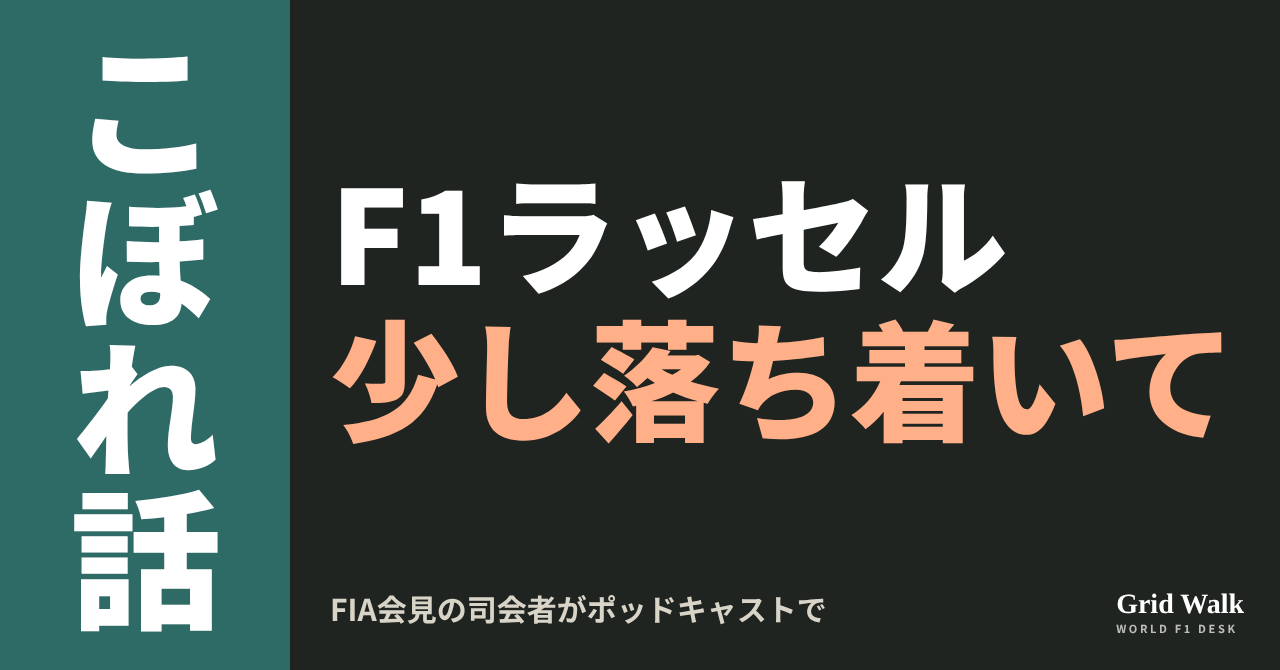
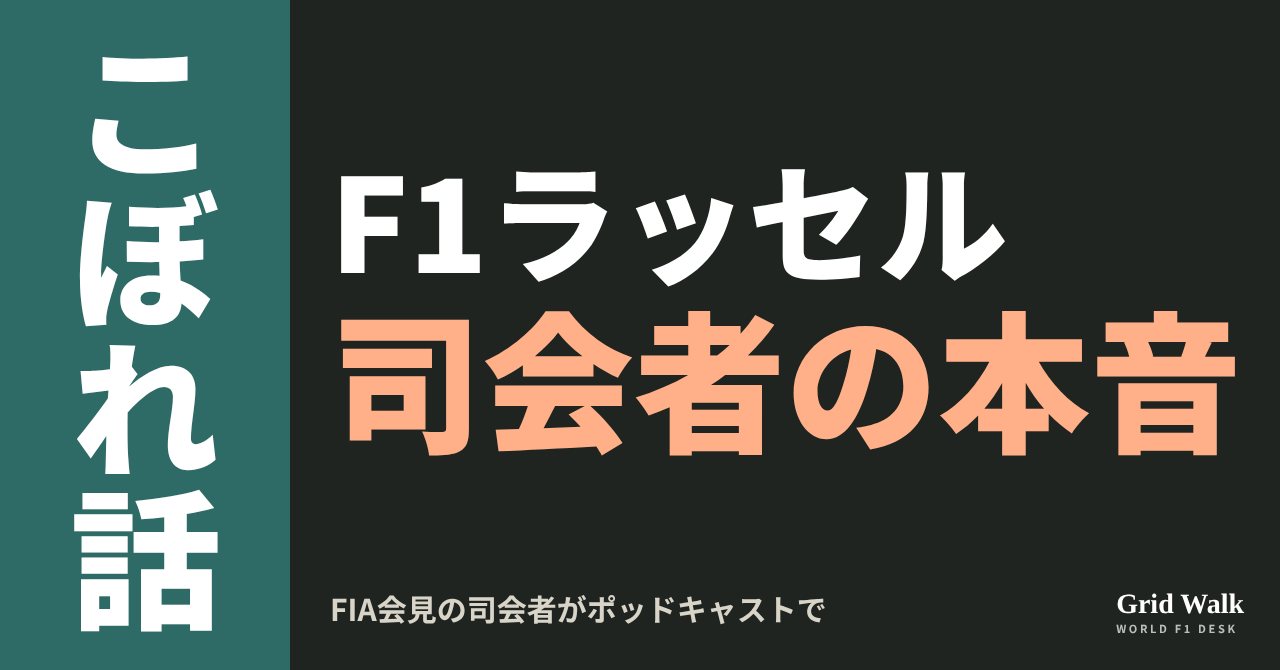
desk: 11/10の画像候補R2を差し替え
Claude-Session: https://claude.ai/code/session_01LGMvzb8B3aK7DkzCCi7qDe

diff --git a/desk/pending/1110/R2.html b/desk/pending/1110/R2.html
@@ -11,7 +11,7 @@ em{font-style:normal;color:#FFB089}
 .br{position:absolute;right:36px;bottom:34px;font:700 28px Georgia,serif}.br small{display:block;font:700 11px 'Noto Sans CJK JP';letter-spacing:.24em;opacity:.7}
 .row{display:flex;align-items:center;gap:28px;white-space:nowrap;font-weight:900}
 .row svg{flex:0 0 auto}
-</style><div class=c><div class=p><b>こぼれ話</b></div><div class=r><div class=l1>F1ラッセル</div><div class=l2><em>少し落ち着いて</em></div></div><div class=s>FIA会見の司会者がポッドキャストで</div><div class=br>Grid Walk<small>WORLD F1 DESK</small></div></div>
+</style><div class=c><div class=p><b>こぼれ話</b></div><div class=r><div class=l1>F1ラッセル</div><div class=l2><em>司会者の本音</em></div></div><div class=s>FIA会見の司会者がポッドキャストで</div><div class=br>Grid Walk<small>WORLD F1 DESK</small></div></div>
 <script>
 document.querySelectorAll('.l1,.l2,.l3,.s,.row').forEach(el=>{let f=parseFloat(getComputedStyle(el).fontSize);while(el.scrollWidth>el.clientWidth+1&&f>20){f-=2;el.style.fontSize=f+'px'}});
 const r=document.querySelector('.r');let n=0;while(r.scrollHeight>r.clientHeight+1&&n++<80){document.querySelectorAll('.l1,.l2,.l3,.row').forEach(el=>{el.style.fontSize=(parseFloat(getComputedStyle(el).fontSize)-3)+'px'})}
